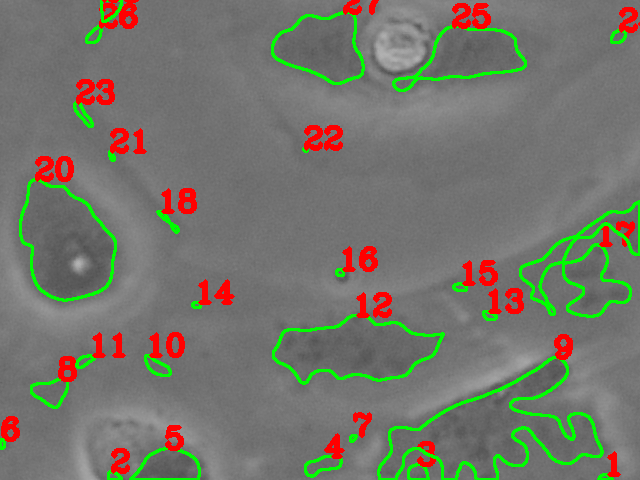
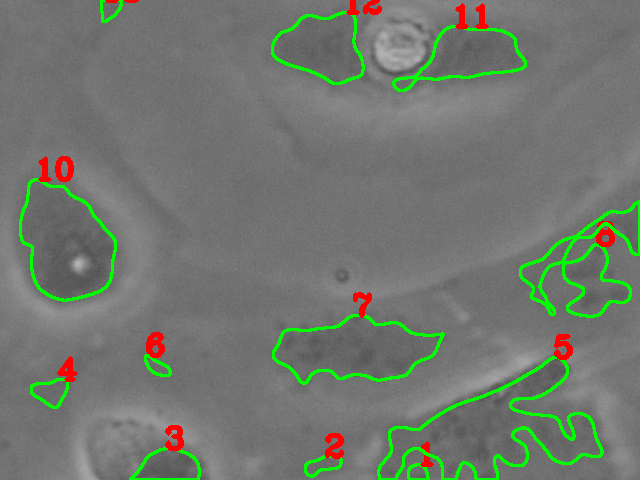
Sorting out file organisation

diff --git a/Programming/Classificiation_method_3.py b/Programming/Classificiation_method_3.py
@@ -215,7 +215,7 @@ def kmeans_clustering(data_train, data_test, label_train, label_test):
 
 
 def main():
-    input_folder_path = '/Users/nikhildhulashia/Library/CloudStorage/OneDrive-UniversityCollegeLondon/Third Year/Individual Project/Datasets/RPE_dataset/Images'
+    input_folder_path = '/Users/nikhildhulashia/Library/CloudStorage/OneDrive-UniversityCollegeLondon/Third Year/Individual Project/Datasets/RPE_dataset/Subwindows'
     
     # Import image names
     image_list = cell_image_import(input_folder_path)
@@ -227,13 +227,13 @@ def main():
     data_train, data_test, label_train, label_test = data_split(cell_data, labels)
 
     # Create a svm Classifier
-    # svm_classifier(data_train, data_test, label_train, label_test)
+    svm_classifier(data_train, data_test, label_train, label_test)
 
     # KMeans Clustering
     # kmeans_clustering(data_train, data_test, label_train, label_test)
     
     # Visualise SVM decision boundaries
-    svm_classifier_visualisation(data_train, data_test, label_train, label_test)
+    #svm_classifier_visualisation(data_train, data_test, label_train, label_test)
 
 if __name__ == "__main__":
     main()

diff --git a/Programming/MAIN.py b/Programming/MAIN.py
@@ -38,7 +38,6 @@ def image_info(image_name, imArray):
     plt.xlabel('Pixel intensity')
     plt.ylabel('Number of pixels')
     plt.tight_layout()
-    plt.savefig('Programming/edited_images' + image_name + '_histogram.png')
     plt.show()
     
 
@@ -60,7 +59,6 @@ def image_import(folder_path, image_name):
     display_image('Original Image', imArray)
 
     #image_info('Original_Image', imArray)
-
 
     return imArray
 
@@ -342,11 +340,11 @@ def cell_identification(binary_image, imArrayG, image_name):
     result = cv2.cvtColor(result, cv2.COLOR_GRAY2BGR) # ***Only to display contour in colour
 
     cv2.drawContours(result, contours, -1, (0, 255, 0), 2)
-    #display_image('Contours on Grayscale Image', result)
+    display_image('Contours on Grayscale Image', result)
 
 
     # Minimum contour area threshold - removes small contours
-    min_contour_area = 00
+    min_contour_area = 200
 
     # Filter contours based on area
     filtered_contours = []

diff --git a/Programming/base_cell_classificiation.py b/Programming/base_cell_classificiation.py
@@ -85,7 +85,7 @@ def svm_classifier(data_train, data_test, label_train, label_test):
 
 
 def main():
-    folder_path = '/Users/nikhildhulashia/Library/CloudStorage/OneDrive-UniversityCollegeLondon/Third Year/Individual Project/Datasets/rpe_raw_images'
+    folder_path = '/Users/nikhildhulashia/Library/CloudStorage/OneDrive-UniversityCollegeLondon/Third Year/Individual Project/Datasets/RPE_dataset/Subwindows'
 
     # Import image
     images_data, image_labels = cell_image_import(folder_path)
